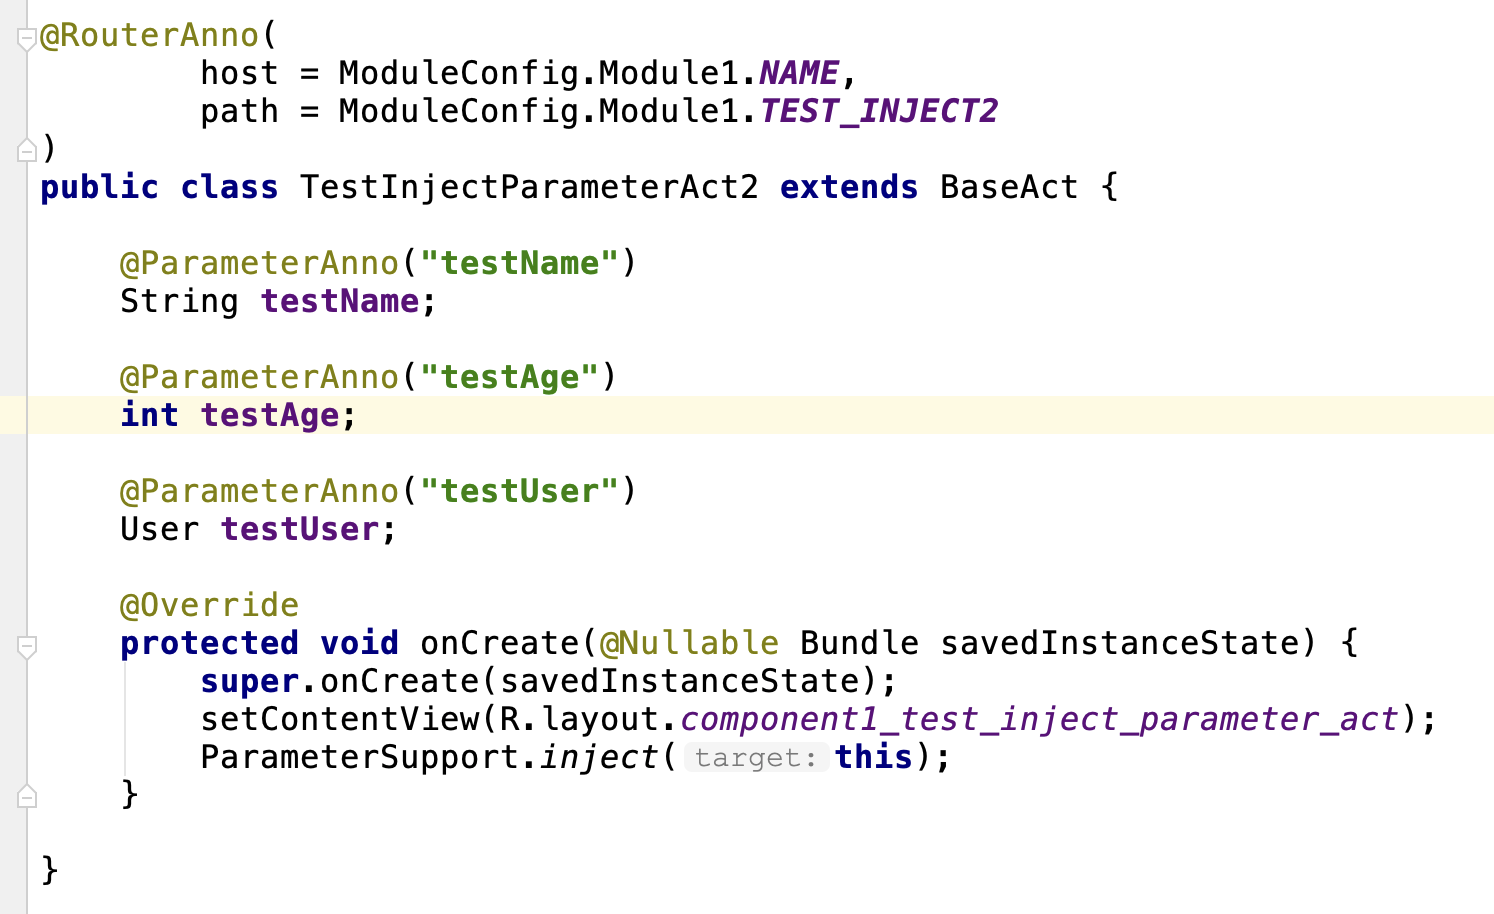
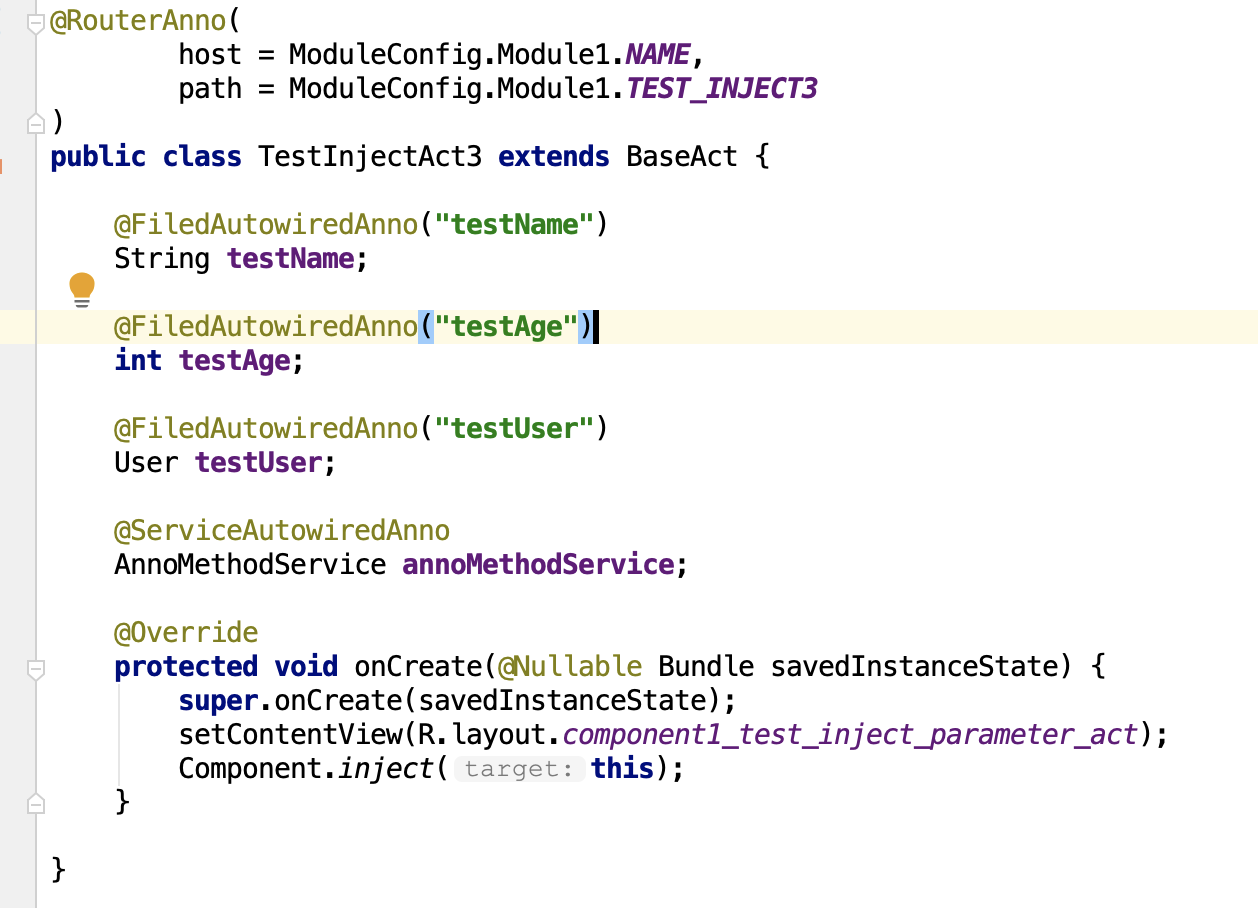
更新 readme

diff --git a/Module1/src/main/java/com/xiaojinzi/component1/view/TestInjectAct3.java b/Module1/src/main/java/com/xiaojinzi/component1/view/TestInjectAct3.java
@@ -1,0 +1,44 @@
+package com.xiaojinzi.component1.view;
+
+import android.os.Bundle;
+import android.support.annotation.Nullable;
+
+import com.xiaojinzi.base.ModuleConfig;
+import com.xiaojinzi.base.bean.User;
+import com.xiaojinzi.base.service.inter.app.AnnoMethodService;
+import com.xiaojinzi.base.view.BaseAct;
+import com.xiaojinzi.component.anno.FiledAutowiredAnno;
+import com.xiaojinzi.component.anno.RouterAnno;
+import com.xiaojinzi.component.anno.ServiceAutowiredAnno;
+import com.xiaojinzi.component.impl.Component;
+import com.xiaojinzi.component1.R;
+
+/**
+ * 测试除了基本属性之外的数据类型
+ */
+@RouterAnno(
+        host = ModuleConfig.Module1.NAME,
+        path = ModuleConfig.Module1.TEST_INJECT3
+)
+public class TestInjectAct3 extends BaseAct {
+
+    @FiledAutowiredAnno("testName")
+    String testName;
+
+    @FiledAutowiredAnno("testAge")
+    int testAge;
+
+    @FiledAutowiredAnno("testUser")
+    User testUser;
+
+    @ServiceAutowiredAnno
+    AnnoMethodService annoMethodService;
+
+    @Override
+    protected void onCreate(@Nullable Bundle savedInstanceState) {
+        super.onCreate(savedInstanceState);
+        setContentView(R.layout.component1_test_inject_parameter_act);
+        Component.inject(this);
+    }
+
+}

diff --git a/ModuleBase/src/main/java/com/xiaojinzi/base/ModuleConfig.java b/ModuleBase/src/main/java/com/xiaojinzi/base/ModuleConfig.java
@@ -61,6 +61,7 @@ public class ModuleConfig {
         public static final String TEST_IN_OTHER_MODULE = "testInOtherModule";
         public static final String TEST_INJECT1 = "testInject1";
         public static final String TEST_INJECT2 = "testInject2";
+        public static final String TEST_INJECT3 = "testInject3";
         public static final String TEST_PUT_QUERY_WITH_URL = "testPutQueryWithUrl";
 
     }
